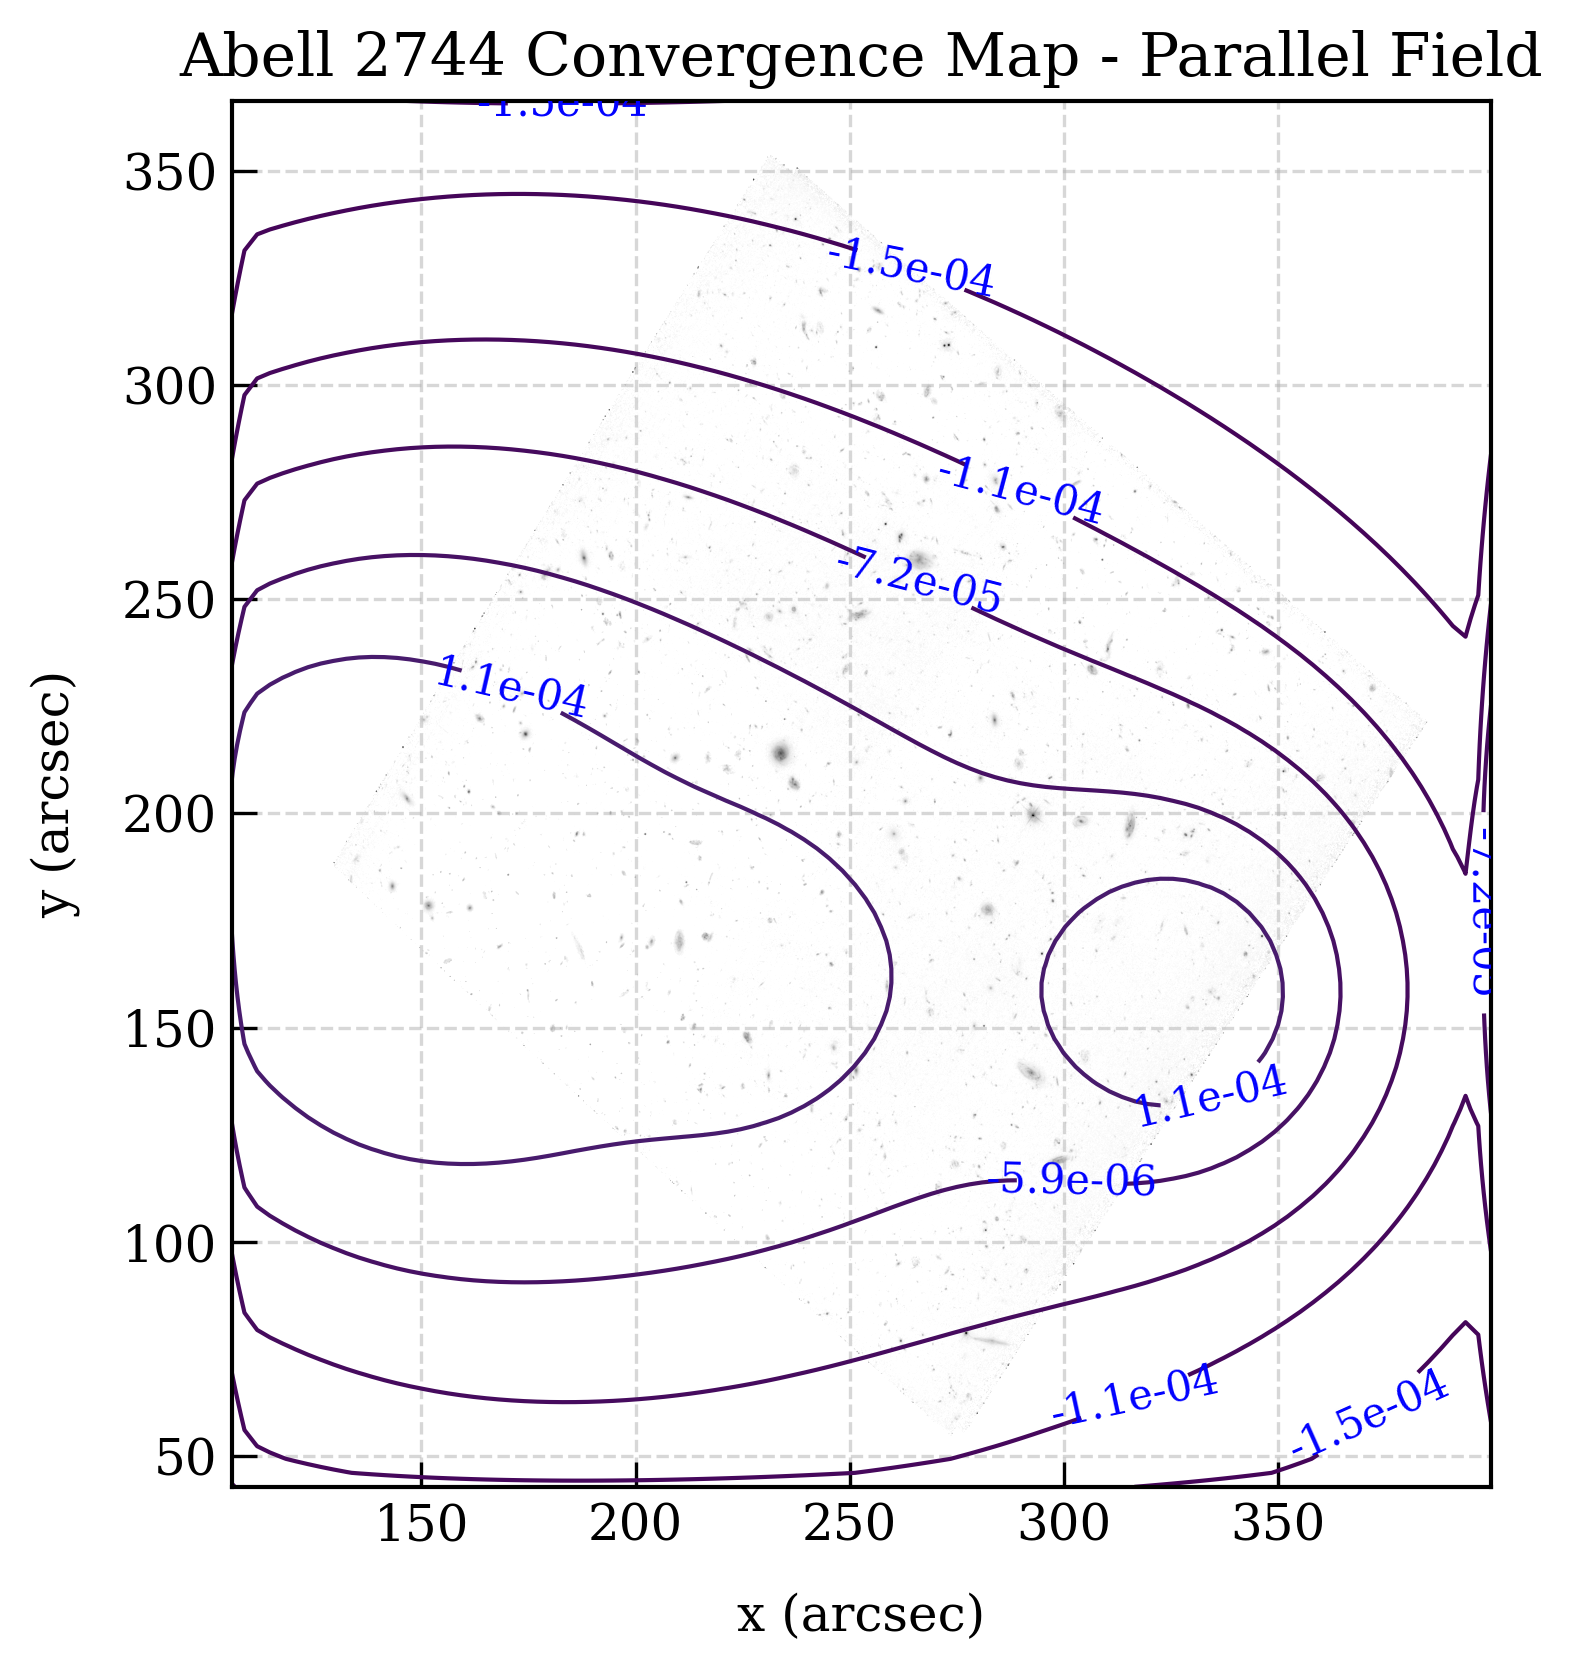
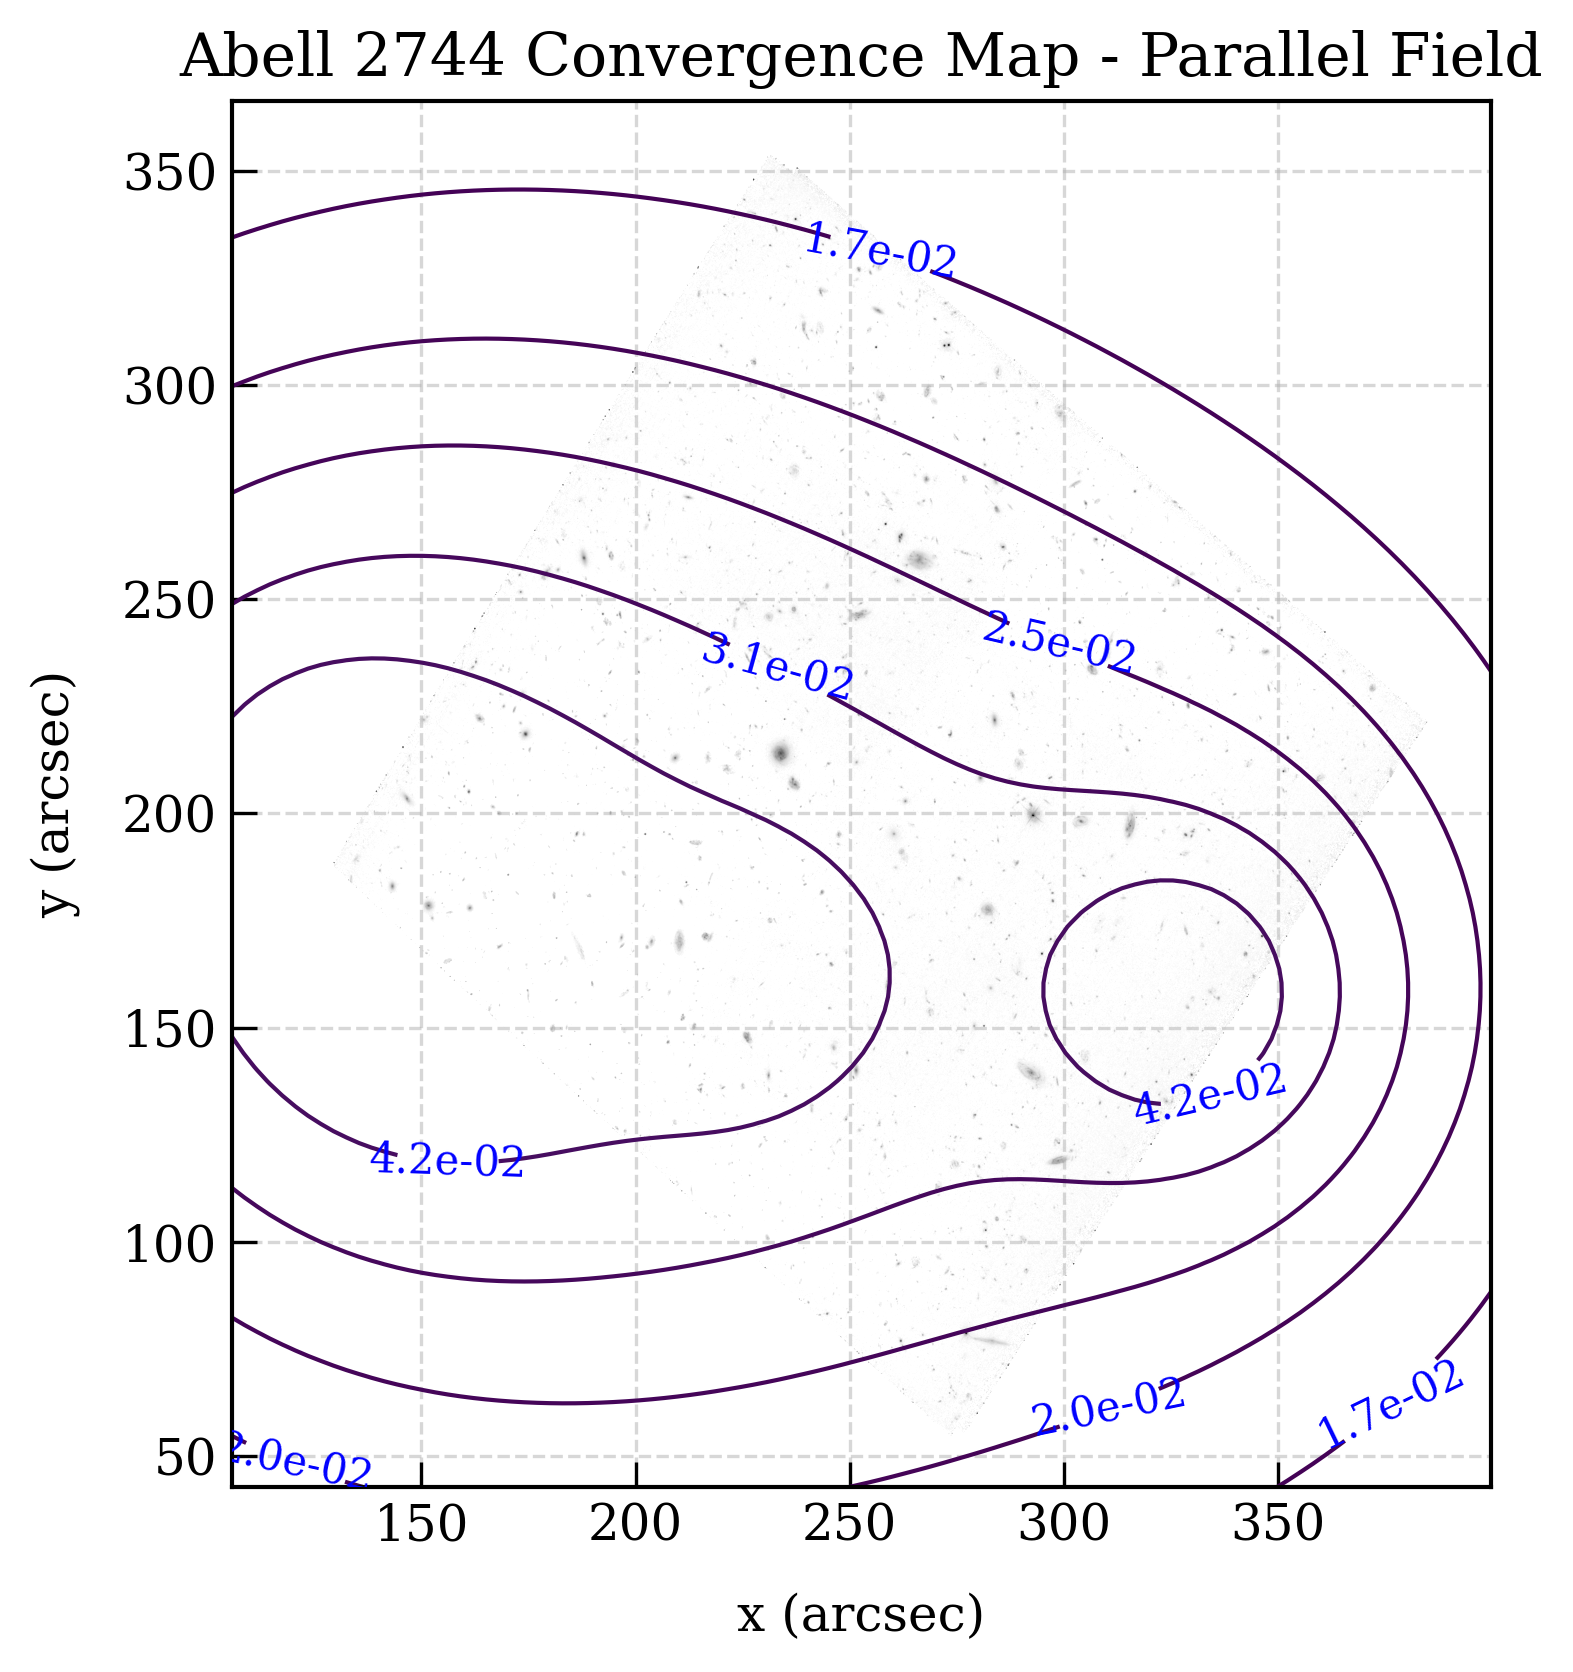
Randomized a2744 cluster distribution

diff --git a/test_pipeline.py b/test_pipeline.py
@@ -7,8 +7,8 @@ from astropy.visualization import hist as fancyhist
 import warnings
 from astropy.io import fits
 from astropy.visualization import ImageNormalize, LogStretch
-from matplotlib import cm
 from astropy import units as u
+import os
 
 plt.style.use('scientific_presentation.mplstyle') # Use the scientific presentation style sheet for all plots
 
@@ -105,7 +105,6 @@ def plot_cluster(ax, img_data, X, Y, conv, lenses, sources, extent, legend=True)
 
     if legend:
         ax.legend()
-
 
 
 def get_img_data(fits_file_path) -> np.ndarray:
@@ -420,24 +419,28 @@ def plot_a2774_field(field='cluster', randomize=False, full_reconstruction=False
         lenses, sources, _, _ = reconstruct_system(csv_file_path, flags=True, randomize=randomize)
 
         # Save the class objects so that we can replot without having to rerun the code
-        dir = 'Data//'
-        file_name = 'a2744' 
-        file_name += '_par' if field == 'parallel' else '_clu' 
-        file_name += '_rand' if randomize else ''
-        np.save(dir + file_name + '_lenses', np.array([lenses.x, lenses.y, lenses.te, lenses.chi2]))
-        np.save(dir + file_name + '_sources', np.array([sources.x, sources.y, sources.e1, sources.e2, sources.f1, sources.f2, sources.sigs, sources.sigf]))
+        if randomize:
+            # If we're randomizing, I don't need to save the data
+            pass
+        else:
+            dir = 'Data//'
+            file_name = 'a2744' 
+            file_name += '_par' if field == 'parallel' else '_clu' 
+            np.save(dir + file_name + '_lenses', np.array([lenses.x, lenses.y, lenses.te, lenses.chi2]))
+            np.save(dir + file_name + '_sources', np.array([sources.x, sources.y, sources.e1, sources.e2, sources.f1, sources.f2, sources.sigs, sources.sigf]))
     else:
-        # Put code here for loading our saved class objects
+        # If we're not doing a full reconstruction, we need to load in the data
         dir = 'Data//'
         file_name = 'a2744' 
         file_name += '_par' if field == 'parallel' else '_clu' 
-        file_name += '_rand' if randomize else ''
         lenses = pipeline.Lens(*np.load(dir + file_name + '_lenses.npy'))
         sources = pipeline.Source(*np.load(dir + file_name + '_sources.npy'))
 
     # Generate a convergence map of the lensing field, spanning the range of the sources
     x = np.linspace(min(sources.x)-20, max(sources.x)+20, 100)
     y = np.linspace(min(sources.y)-20, max(sources.y)+20, 100)
+
+    kappa_scale = (max(sources.x) - min(sources.x) + 40) / 100 # Ratio of kappa pixel to source pixel
 
     extent = [min(x), max(x), min(y), max(y)]
 
@@ -451,11 +454,11 @@ def plot_a2774_field(field='cluster', randomize=False, full_reconstruction=False
     def mass_sheet(kappa, k):
         return k*kappa + (1 - k)
     
-    kappa = mass_sheet(kappa, (1-np.mean(kappa))**-1) # Set the mean kappa to 0
+    # kappa = mass_sheet(kappa, (1-np.mean(kappa))**-1) # Set the mean kappa to 0
 
     # Let's also smooth the convergence map - we don't expect to recover information on small scales
-    kernel = create_gaussian_kernel(100, 1) # For now, lets smooth on the scale of a single pixel
-    kappa = convolve_image(kappa, kernel)
+    # kernel = create_gaussian_kernel(100, 1/kappa_scale) # For now, lets smooth on the scale of a single pixel
+    # kappa = convolve_image(kappa, kernel)
 
     # Create labels for the plot
     dir = 'Images//abel//'
@@ -471,9 +474,20 @@ def plot_a2774_field(field='cluster', randomize=False, full_reconstruction=False
     fig, ax = plt.subplots()
     plot_cluster(ax, img_data, X, Y, kappa, None, None, extent, legend=False)
     ax.set_title(title)
+    if randomize:
+        # If there's already a randomized plot, I don't want to overwrite it
+        # Can we add a number to the end of the file name?
+        # First, check if the file exists
+        i = 1
+        while True:
+            if os.path.isfile(dir + file_name + f'_{i}.png'):
+                i += 1
+            else:
+                break
+        file_name += f'_{i}'
     plt.savefig(dir + file_name + '.png')
     plt.show()
 
 
 if __name__ == '__main__':
-    plot_a2774_field(field='parallel', randomize=False, full_reconstruction=True)
+    plot_a2774_field(field='parallel', randomize=False, full_reconstruction=False)

diff --git a/utils.py b/utils.py
@@ -1,4 +1,7 @@
 import numpy as np
+from astropy.cosmology import Planck15 as cosmo
+from astropy.constants import c, G
+from astropy import units as u
 
 # ------------------------
 # Terminal Utility Functions
@@ -127,17 +130,9 @@ def compute_chi2(sources, lenses, sigf, sigs, fwgt=1.0, swgt=1.0):
     
     return chi2val
 
-'''
-def generate_combinations(n, m, start=0, curr=[]):
-    # Generate all combinations of m elements from a set of n elements
-    if m == 0:
-        yield curr
-        return
-    for i in range(start, n):
-        yield from generate_combinations(n, m-1, i+1, curr + [i])
-'''
 
 def generate_combinations(N, m):
+    """Generates all combinations of m elements from a set of N elements."""
     # Create an array of indices from 0 to N-1
     indices = np.arange(N)
 
@@ -166,3 +161,37 @@ def generate_combinations(N, m):
     generate_combinations_recursive([], indices, m)
 
     return combinations_list
+
+
+def calculate_mass(kappa_array, z_l, z_s, pixel_scale):
+    """
+    Calculates the total mass within a convergence map.
+    ------------------------------------------
+    Parameters:
+        kappa_array (2D array): The convergence map.
+        z_l (float): The redshift of the lens.
+        z_s (float): The redshift of the source.
+        pixel_scale (float): The pixel scale of the convergence map in arcsec.
+    """
+    # Convert pixel_scale from arcsec to radians
+    pixel_scale_rad = (pixel_scale * u.arcsec).to(u.rad).value
+
+    # Calculate the angular diameter distances involved
+    D_l = cosmo.angular_diameter_distance(z_l).to(u.meter).value
+    D_s = cosmo.angular_diameter_distance(z_s).to(u.meter).value
+    D_ls = cosmo.angular_diameter_distance_z1z2(z_l, z_s).to(u.meter).value
+
+    # Calculate the critical surface mass density
+    Sigma_crit = (c**2 / (4 * np.pi * G)) * (D_s / (D_l * D_ls))
+    Sigma_crit = Sigma_crit.to(u.kg / u.m**2).value  # Convert to kg/m^2
+
+    # Calculate the area per pixel
+    area_per_pixel = (pixel_scale_rad * D_l)**2  # Area in m^2
+
+    # Calculate the total mass
+    total_mass = Sigma_crit * np.sum(kappa_array) * area_per_pixel
+
+    # Convert the mass to solar masses for easier interpretation
+    total_mass_solar = (total_mass * u.kg).to(u.M_sun).value
+
+    return total_mass_solar
